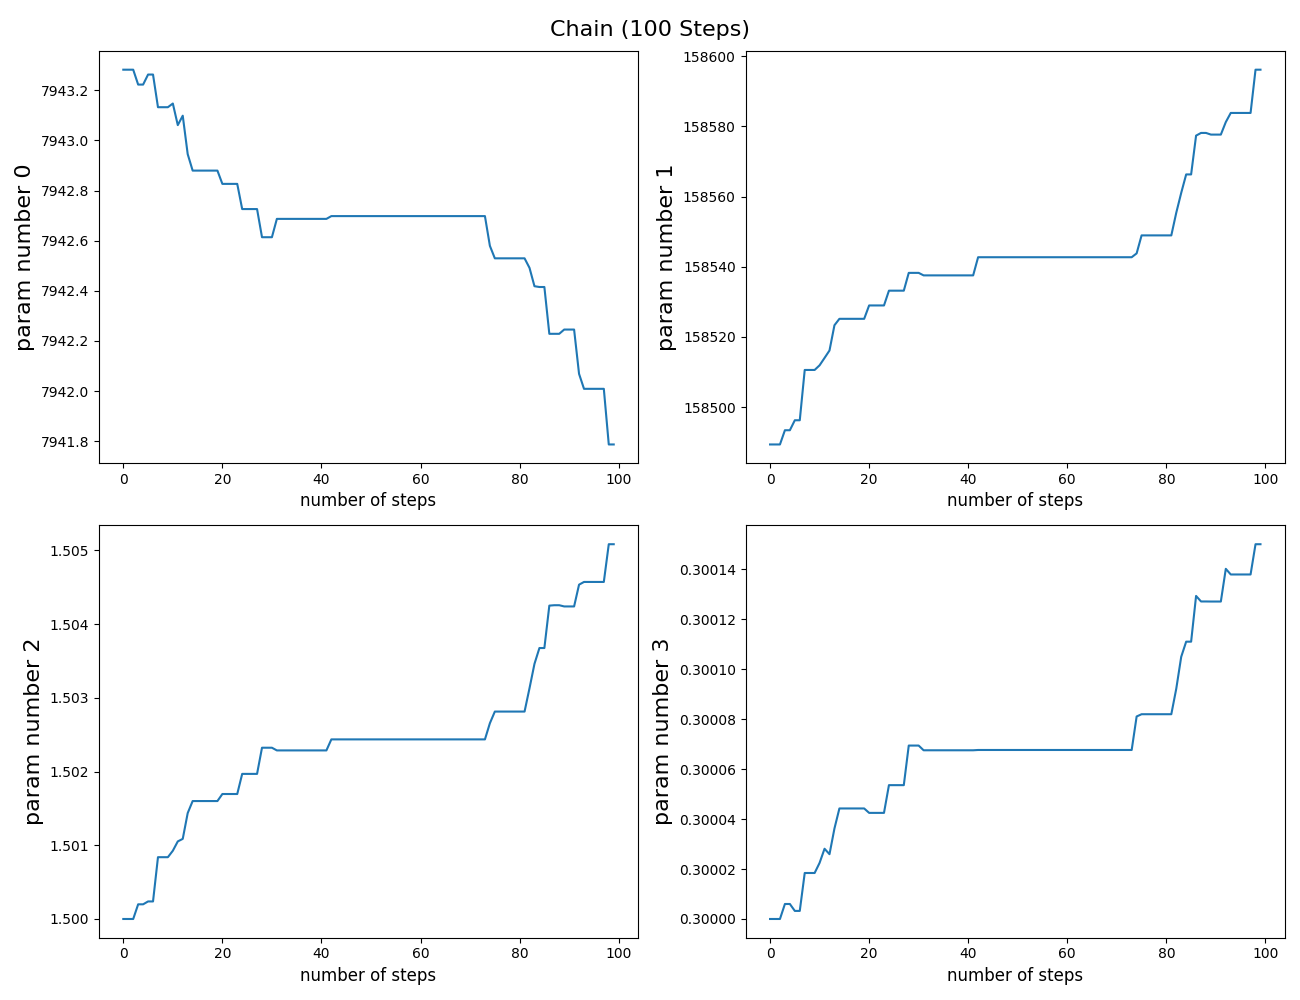
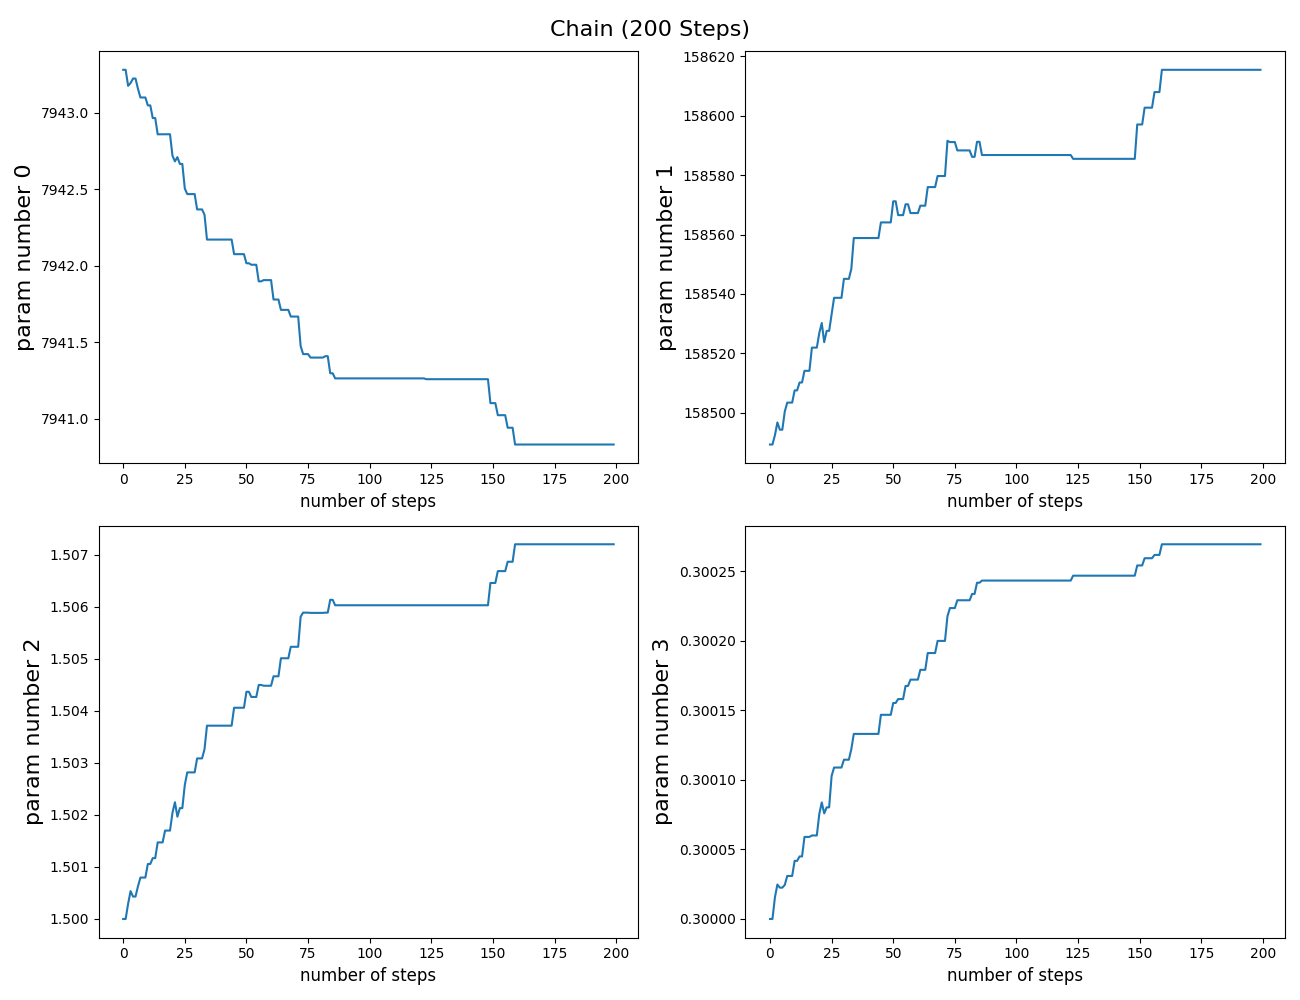
cleaned the cov_mat_calc script

diff --git a/code_final/known_curve/cov_mat_calc.py b/code_final/known_curve/cov_mat_calc.py
@@ -1,0 +1,89 @@
+import matplotlib.pyplot as plt
+import numpy as np
+import pandas as pd
+from scipy.interpolate import CubicSpline
+import ares
+
+#loading the EDGES data (the e subscipt is related to EDGES)
+data_1 = pd.read_csv('/home/o/oscarh/aryanah/My-Project/data/data_1.csv')
+freq_e = data_1.iloc[:,0] #frequency, MHz
+
+#Changing the axis from frequency to redshift
+v_0 = 1420 #MHz, frequency of 21cm line
+z_e = (v_0/freq_e)-1 #conversion of frequency to redshift
+
+def dict_to_list(d): #converts dictionary to two lists (key and value)
+    #d must be a dictionary containing the value of parameters and their names
+    key = list(d.keys())
+    value = list(d.values())
+    return value, key
+
+def list_to_dict(value, key): #converts two lists (key and value) to a dictionary
+    #value is a list of parameters' values
+    #key is a list of parameters' names
+    return dict(zip(key, value))
+
+def call_ares (params, redshifts): 
+    #params should be a dictionary
+    sim = ares.simulations.Global21cm(**params, verbose=False, progress_bar=False)
+    sim.run()
+    z = sim.history['z'][::-1]
+    dTb = sim.history['dTb'][::-1]
+    z = z[z<50]
+    dTb = dTb[:len(z)]
+    spline = CubicSpline(z, dTb)   
+    return spline(redshifts) 
+
+def ares_deriv (m, z, d = 1E-2): 
+    #I can further change this function to include the best dx - 4*int(1E5) is the best number I found so far
+    #m is the list of params 
+    #z is the redshift range
+    #y is the brightness temp
+    m = np.array(m)
+    T = call_ares(list_to_dict(m, key), z)
+    derivs = np.zeros([len(z), len(m)])
+    dpars = d * m
+    dpars = np.array(dpars, copy=True, dtype = 'float64')
+    
+    for i in range(len(m)):        
+        pars_plus = np.array(m, copy=True, dtype = 'float64')
+        pars_plus[i] = pars_plus[i] + dpars[i]
+        
+        pars_minus = np.array(m, copy=True, dtype = 'float64')
+        pars_minus[i] = pars_minus[i] - dpars[i]
+        
+        A_plus = call_ares (list_to_dict(pars_plus, key), z)
+        A_minus = call_ares (list_to_dict(pars_minus, key), z)
+        A_m = (A_plus - A_minus)/(2*dpars[i])
+        derivs[:, i] = A_m    
+    return T, derivs
+
+def get_matrices(m, fun, x, y, Ninv):
+    model, derivs = fun(m, x)
+    r = y-model
+    lhs = derivs.T@Ninv@derivs
+    rhs = derivs.T@(Ninv@r)
+    chisq = r.T@Ninv@r
+    return chisq, lhs, rhs
+
+dict_true = {'pop_rad_yield_0_': 1E4, 'pop_rad_yield_2_': 1E5, 'clumping_factor': 1.7, 'fX': 0.1} 
+m_true, key = dict_to_list(dict_true)
+m_true = np.array(m_true, copy=True, dtype = 'float64')
+y_true = call_ares(list_to_dict(m_true, key), z_e)
+err = 1E-3
+Ninv = ((err)**(-2))*np.eye(len(z_e))
+
+fig1 = plt.plot()
+plt.plot(z_e, y_true)
+plt.title('ARES Curve for Starting Set of Parameters')
+plt.savefig('curve_start.png')
+
+chisq_f, lhs_f, rhs_f = get_matrices(m_true, ares_deriv, z_e, y_true, Ninv)
+mycov = lhs_f
+mycovinv= np.linalg.inv(mycov)
+
+txt = open('cov_mat.txt','w')
+txt.write('Satarting Point: ' + repr(m_true) + '\n')
+txt.write('Chi-Square at the starting point: ' +repr(chisq_f) + '\n')
+txt.write('Inverse of Covariance Matrix: ' + repr(mycovinv) + '\n')
+txt.close()

diff --git a/code_history/known_curve/mcmc_revised.py b/code_history/known_curve/mcmc_revised.py
@@ -183,18 +183,12 @@ def mcmc(fun_chisq, start_guess, covariance_matrix, data, Ninv, nstep):
         #print('iteration number', i, 'of', nstep) 
         new_param = samples[i, :] + chain[i-1, :]
         new_chisq =  fun_chisq(new_param, data, Ninv)
-        
-        #try:
-        #    new_chisq =  fun_chisq(new_param, data, err)
-        #except:
-        #    new_chisq = 1E7
-      
         if new_chisq <= chisq[i-1]:
             acceptance_ratio = acceptance_ratio + 1
             chisq[i] = new_chisq
             chain[i, :] = new_param 
         else :
-            betta = 0.5
+            betta = 1
             if np.random.rand(1)<betta*(np.exp(-0.5*(new_chisq-chisq[i-1]))):
                 acceptance_ratio = acceptance_ratio + 1
                 chisq[i] = new_chisq
@@ -209,7 +203,7 @@ dict_true = {'pop_rad_yield_0_': 1E4, 'pop_rad_yield_2_': 1E5, 'clumping_factor'
 
 m_true, key = dict_to_list(dict_true)
 m_true = np.array(m_true, copy=True, dtype = 'float64')
-y_true = call_ares(list_to_dict(m_true, key), z_e)
+y_true = call_ares(dict_true, z_e)
 m_0 = [10**(3.9), 10**(5.2), 1.5, 0.3]
 err = 1E-3
 Ninv = ((err)**(-2))*np.eye(len(z_e))

diff --git a/code_history/known_curve/mcmc_100.py b/code_history/known_curve/mcmc_100.py
@@ -236,7 +236,7 @@ mycovinv = np.array([[ 6.42193835e-03, -3.35083949e-01, -1.68150631e-05,
 # %%
 #MCMC inputs 
 param_length = len(m_true)
-nstep = 100
+nstep = 200
 
 # %%
 #Running the MCMC
